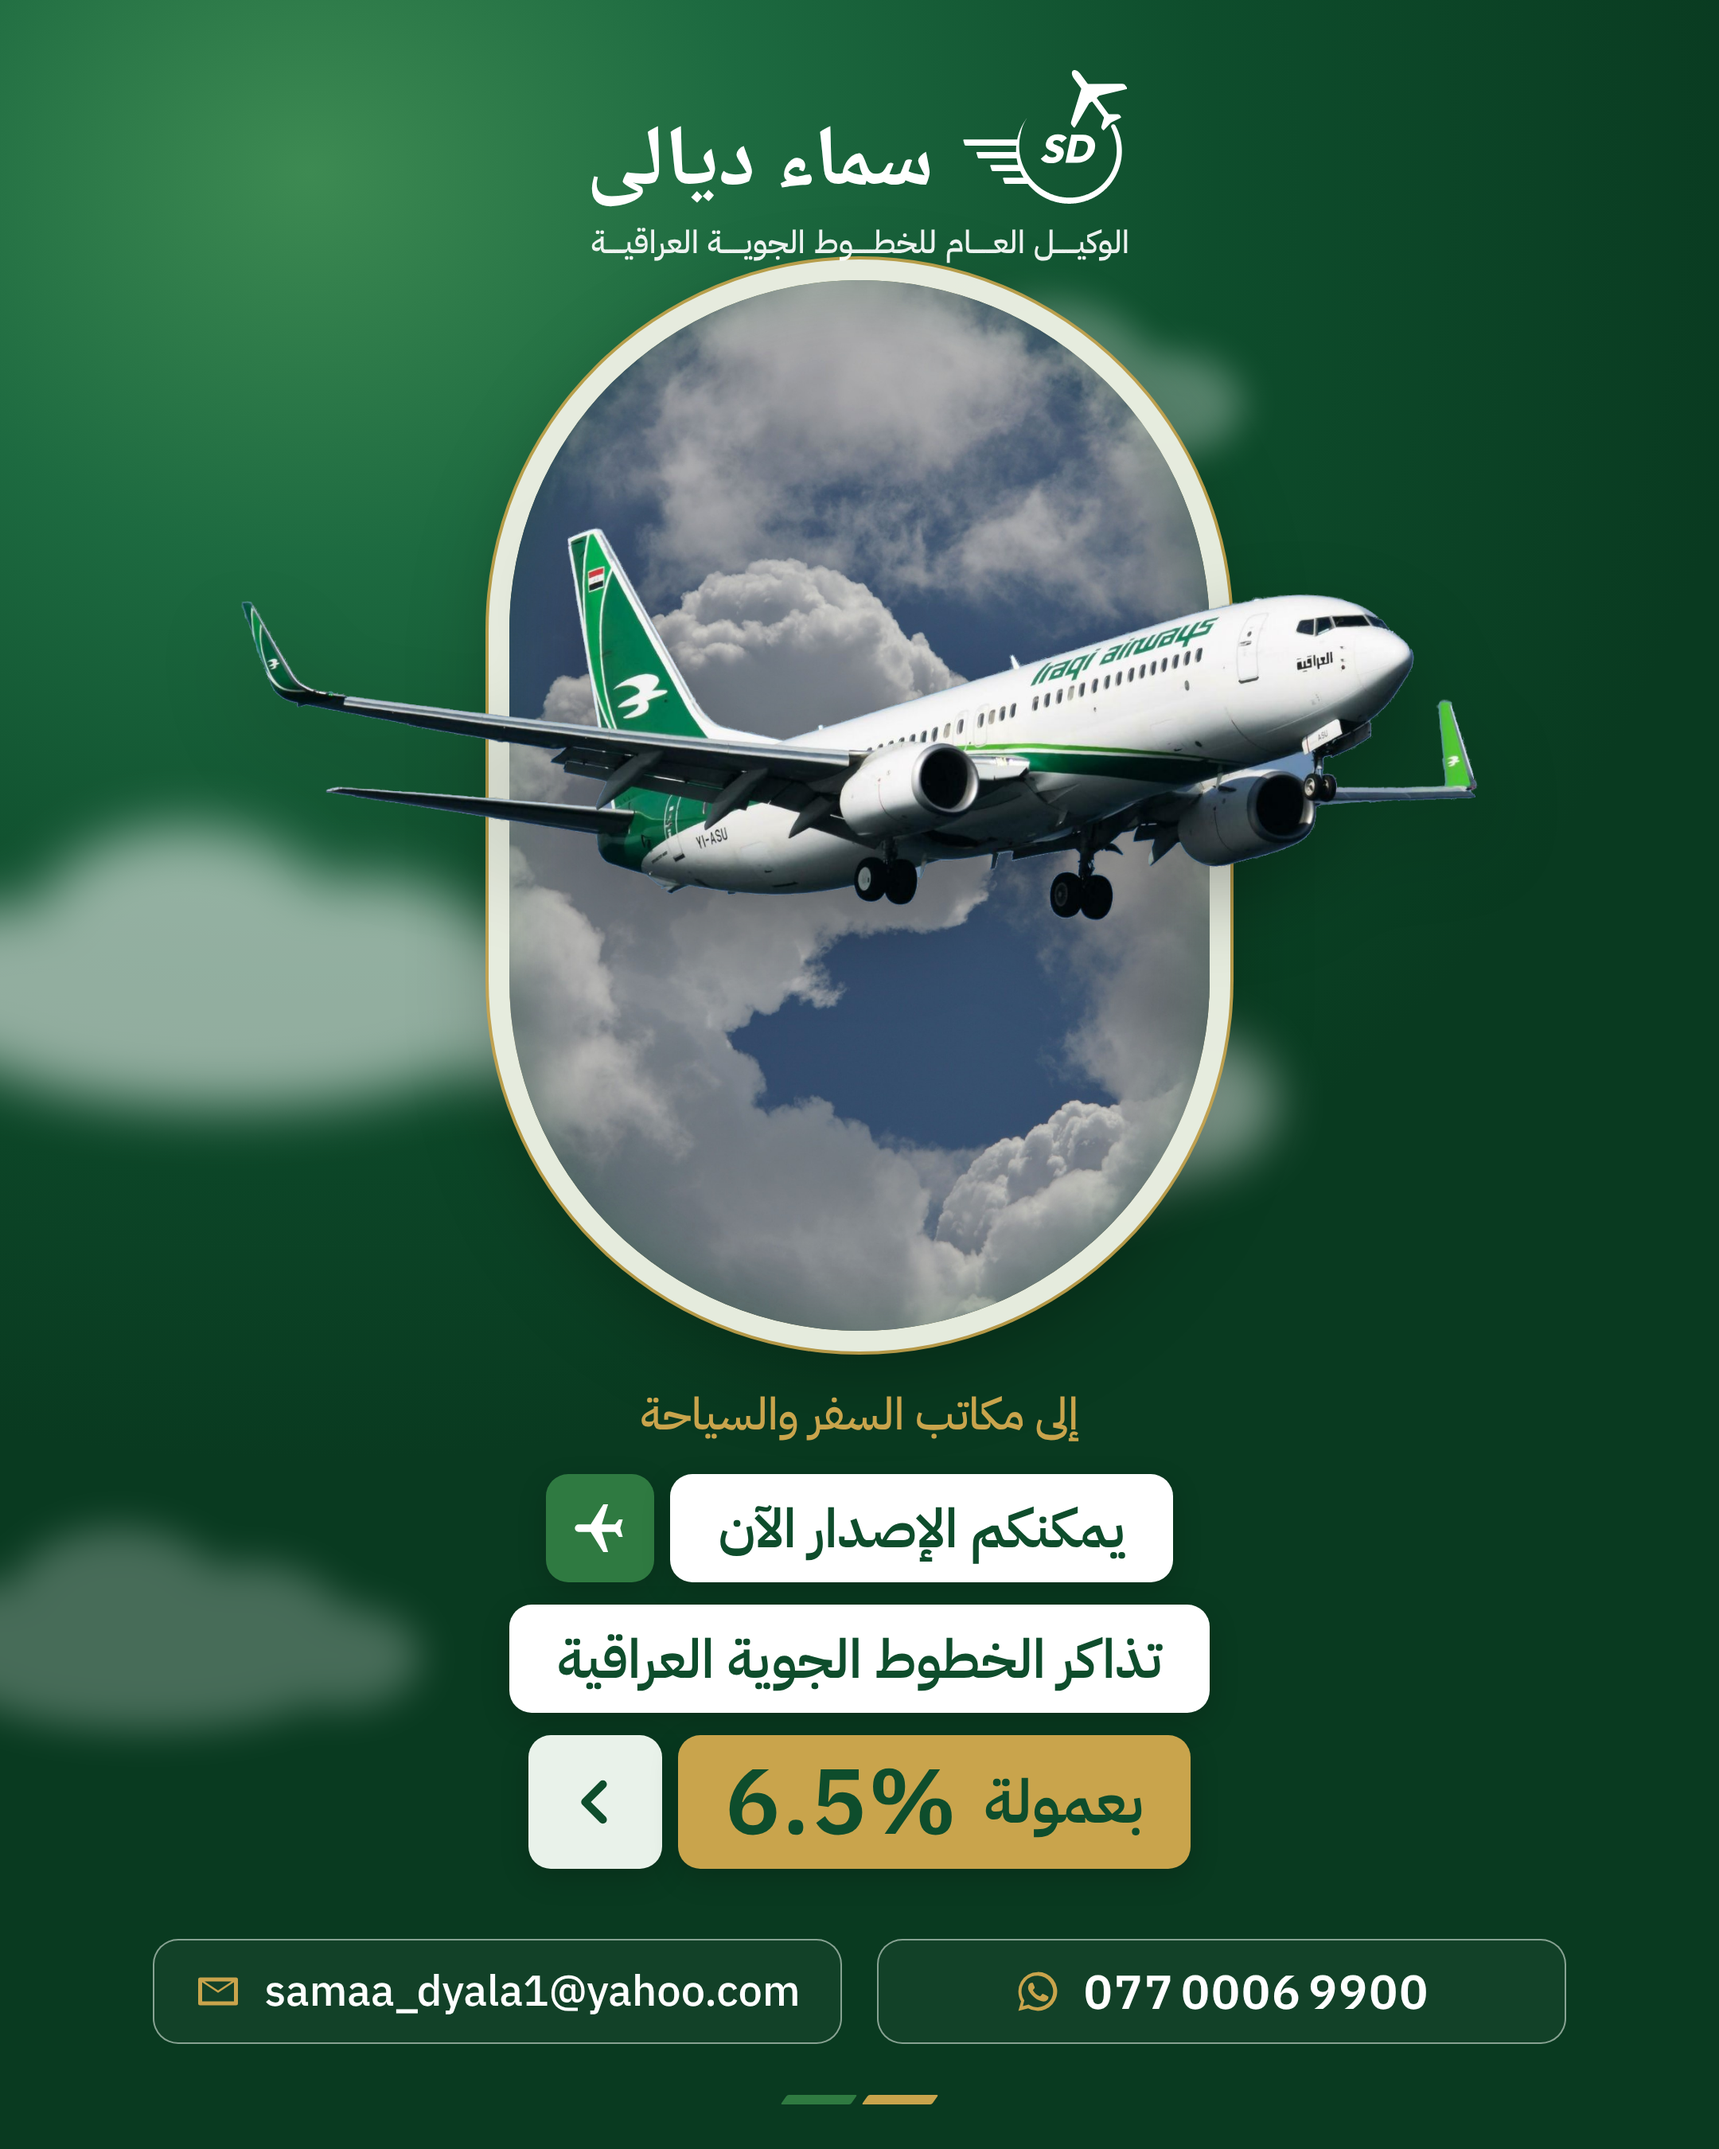
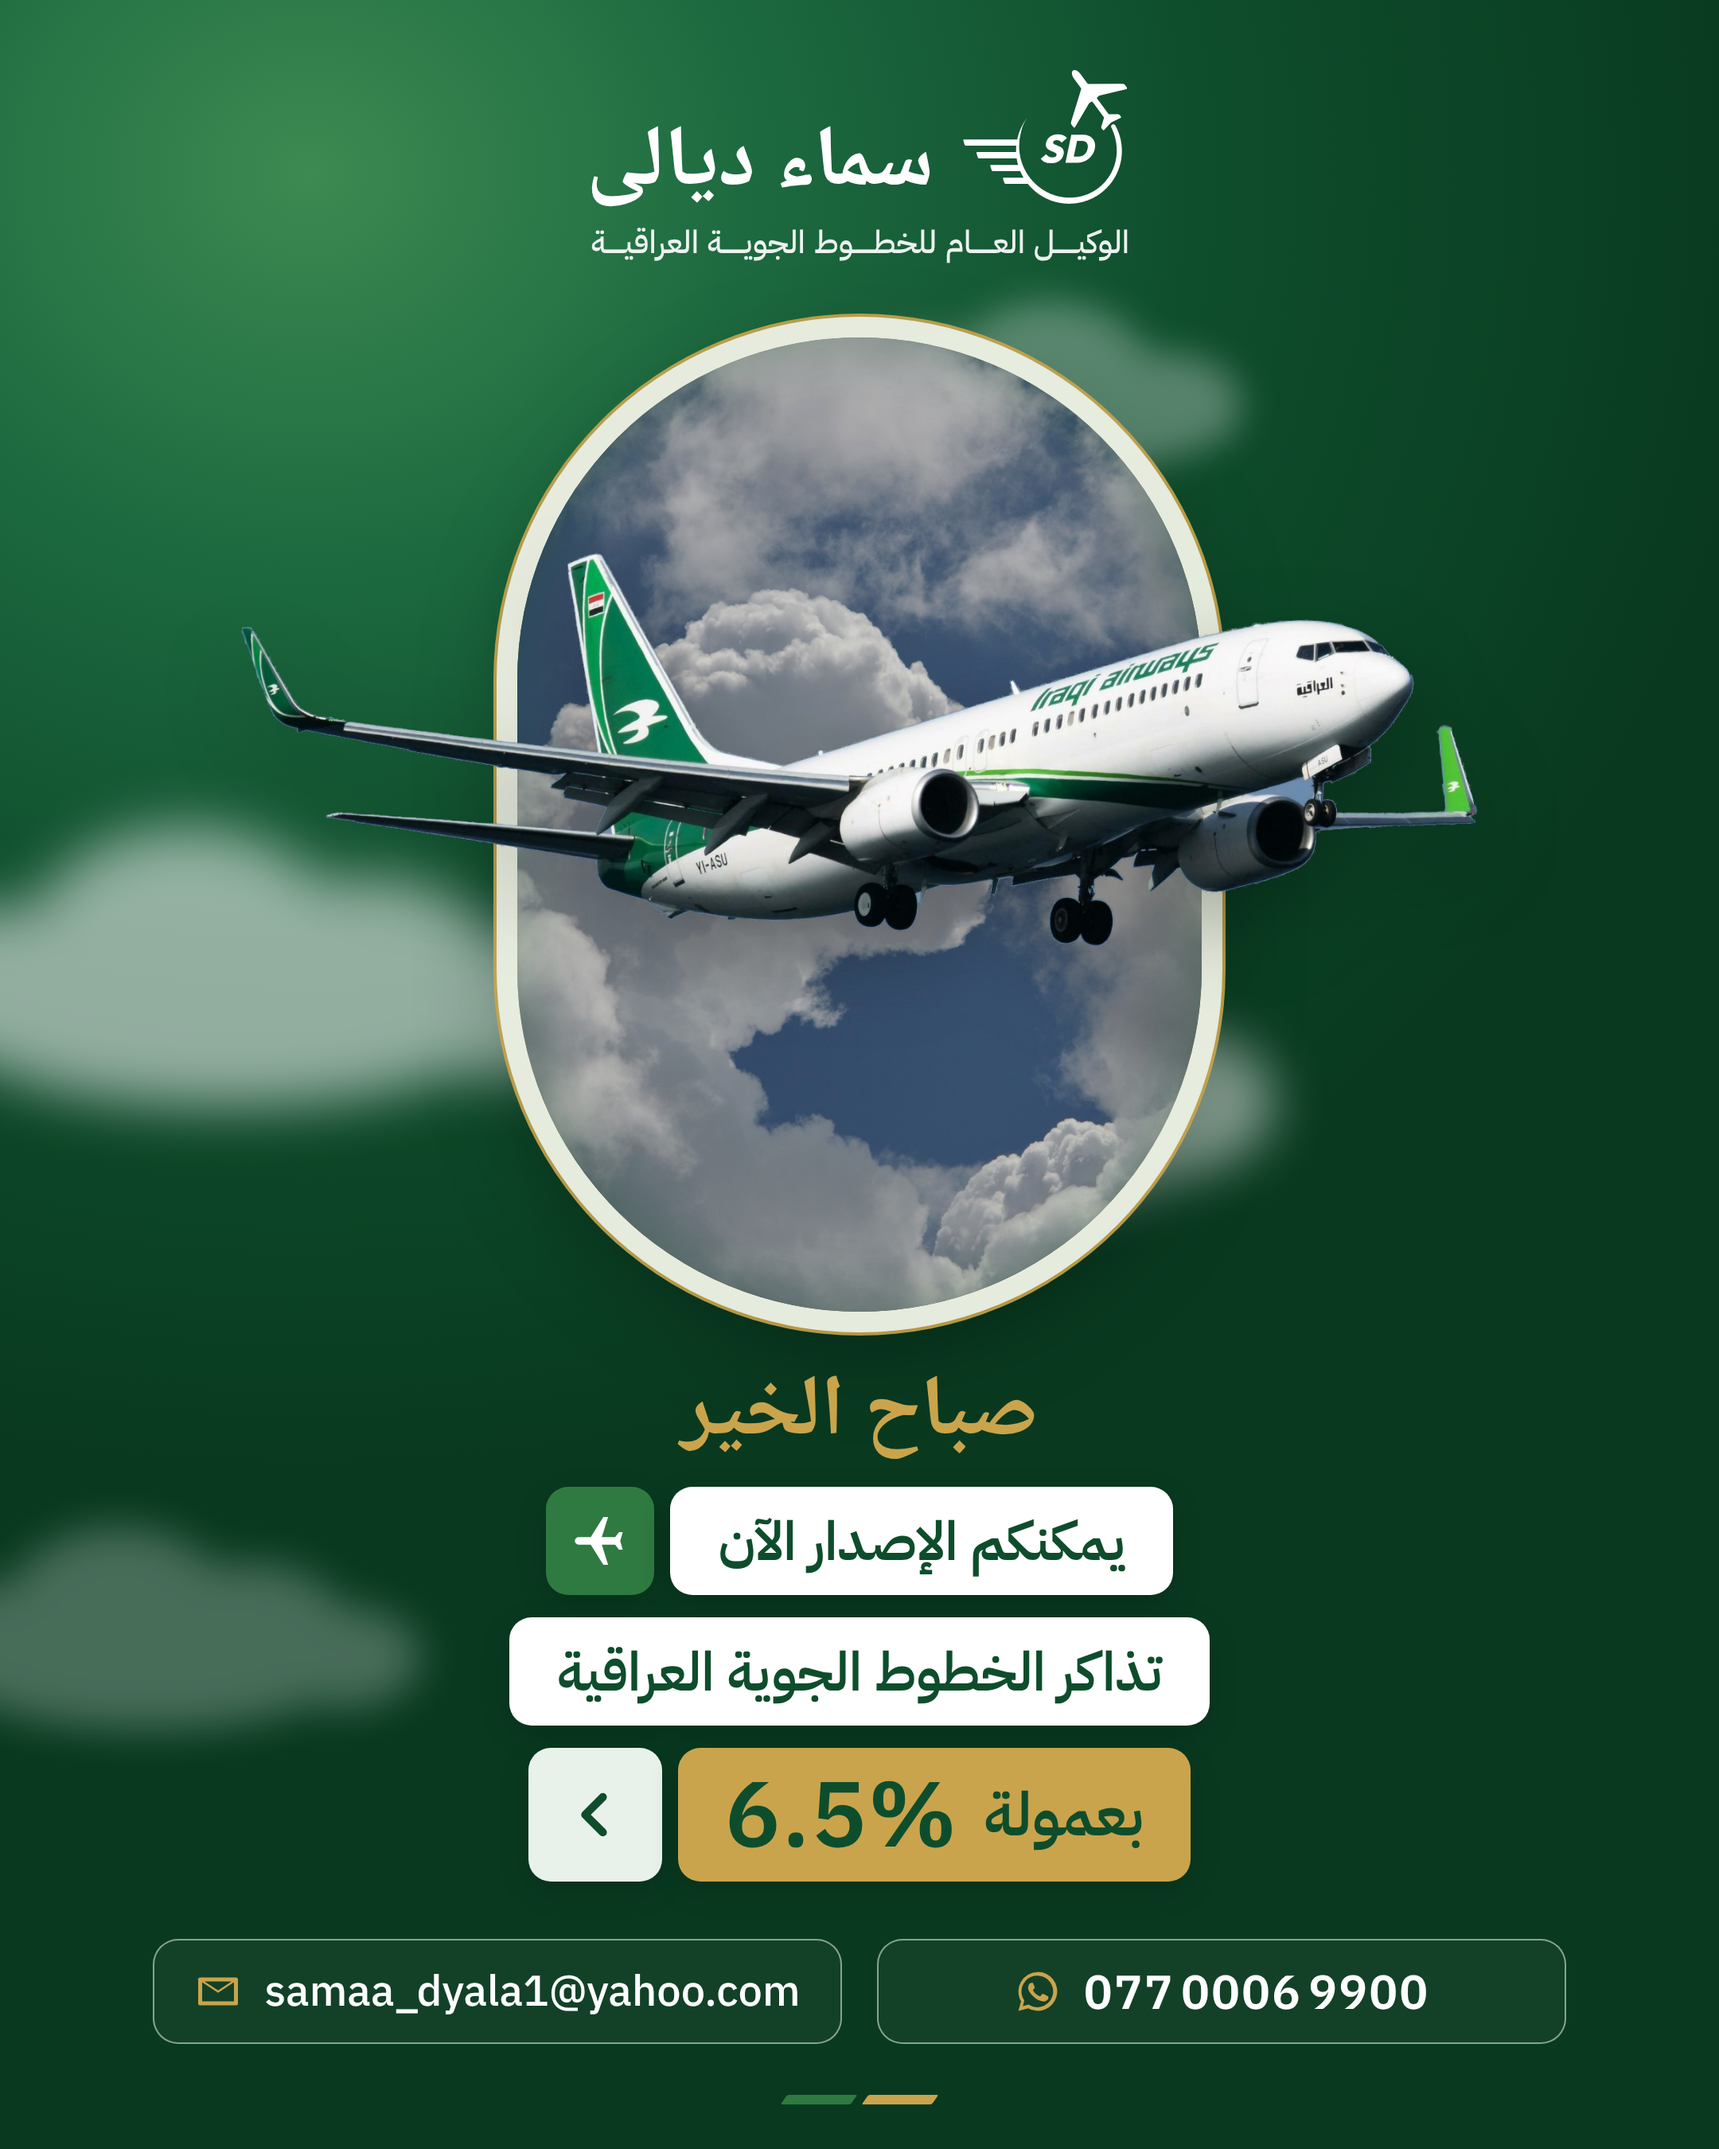
Window commission post: header spacing, morning greeting, no offices line
Claude-Session: https://claude.ai/code/session_01EprWPUJDuKvYHn821imCPv

Changed region(s): [[0.1551, 0.0933, 0.8685, 0.9022], [0.1241, 0.28, 0.1551, 0.3111]]

diff --git a/09-التصاميم/عمولة الإصدار - النافذة/إعلان.html b/09-التصاميم/عمولة الإصدار - النافذة/إعلان.html
@@ -26,14 +26,14 @@ html,body{width:1080px;height:1350px;overflow:hidden;background:#0E4D2C}
 .head{position:absolute;top:44px;left:0;right:0;display:flex;flex-direction:column;align-items:center;z-index:5}
 .mist{position:absolute;width:380px;height:150px;transform-origin:0 0;filter:blur(14px)}
 .mist i{position:absolute;border-radius:50%;background:#fff}
-.win{position:absolute;left:320px;top:176px;width:440px;height:660px;border-radius:230px;overflow:hidden;
+.win{position:absolute;left:325px;top:212px;width:430px;height:612px;border-radius:230px;overflow:hidden;
   box-shadow:0 0 0 13px rgba(233,242,234,.92),0 0 0 15px rgba(201,164,76,.9),0 18px 60px rgba(0,0,0,.35)}
 .win img{width:100%;height:100%;object-fit:cover;object-position:50% 40%}
 .win::after{content:"";position:absolute;inset:0;border-radius:230px;box-shadow:inset 0 0 40px rgba(14,77,44,.35)}
-.plane{position:absolute;left:150px;top:330px;width:780px;z-index:3;filter:drop-shadow(0 22px 26px rgba(0,0,0,.28))}
+.plane{position:absolute;left:150px;top:346px;width:780px;z-index:3;filter:drop-shadow(0 22px 26px rgba(0,0,0,.28))}
 .over{z-index:4}
-.rows{position:absolute;left:0;right:0;top:868px;display:flex;flex-direction:column;align-items:center;gap:14px;z-index:5}
-.kick{font-family:Plex;font-weight:500;font-size:28px;color:var(--gold);margin-bottom:2px}
+.rows{position:absolute;left:0;right:0;top:858px;display:flex;flex-direction:column;align-items:center;gap:14px;z-index:5}
+.kick{font-family:Naskh;font-weight:700;font-size:54px;line-height:1.15;color:var(--gold);margin-bottom:0}
 .row{display:flex;align-items:stretch;gap:10px;direction:ltr}
 .box{direction:rtl;background:#fff;color:var(--green);border-radius:14px;padding:0 30px;height:68px;display:flex;align-items:center;
   font-family:Plex;font-weight:600;font-size:34px;white-space:nowrap;box-shadow:0 6px 18px rgba(0,0,0,.18)}
@@ -67,7 +67,7 @@ html,body{width:1080px;height:1350px;overflow:hidden;background:#0E4D2C}
     </div>
   </div>
   <div class="rows">
-    <div class="kick">إلى مكاتب السفر والسياحة</div>
+    <div class="kick">صباح الخير</div>
     <div class="row"><span class="sq"><svg viewBox="0 0 24 24" fill="#fff"><path d="M21.5 15.2v-1.9l-8-5V3.5a1.5 1.5 0 0 0-3 0v4.8l-8 5v1.9l8-2.5v5.3l-2 1.5V21l3.5-1 3.5 1v-1.5l-2-1.5v-5.3z" transform="rotate(-90 12 12)"/></svg></span><span class="box">يمكنكم الإصدار الآن</span></div>
     <div class="row"><span class="box">تذاكر الخطوط الجوية العراقية</span></div>
     <div class="row big"><span class="sq"><svg viewBox="0 0 24 24" fill="none" stroke="#0E4D2C" stroke-width="3.2" stroke-linecap="round" stroke-linejoin="round"><path d="M15 5l-7 7 7 7"/></svg></span><span class="box">بعمولة <b>6.5%</b></span></div>

diff --git a/CLAUDE.md b/CLAUDE.md
@@ -101,7 +101,7 @@
 - المقاطع مأخوذة من تيك توك وإنستغرام، فلا تُستخدم في إعلان ممول دون إذن أصحابها، وتُزال أصواتها في المونتاج.
 
 ## منشورات المكاتب (B2B)
-- الشركة تبيع التذاكر لمكاتب السفر الأخرى، والموظفون يرسلون لها منشورات "يمكنكم الإصدار الآن". النموذج المعتمد بهويتنا: `09-التصاميم/عمولة الإصدار للمكاتب/` (من قالب الثقة): "إلى مكاتب السفر والسياحة"، "يمكنكم الإصدار الآن"، "تذاكر الخطوط الجوية العراقية"، "بعمولة 6.5%"، وصورة طائرة العراقية، وبطاقة فيها رقم الإصدار والبريد. تتغير نسبة العمولة من القالب مباشرة. ونسخة ثانية بأسلوب "النافذة" (طائرة العراقية YI-ASU تخرج من نافذة طائرة فيها سماء بغيوم، والنص في صناديق): `09-التصاميم/عمولة الإصدار - النافذة/`. صورة الطائرة المفرغة `08-الصور/طائرة العراقية YI-ASU (مفرغة).png` (من صورة بسماء زرقاء أرسلها إحسان) تصلح لتصاميم أخرى، وصورة الغيوم `08-الصور/سماء بغيوم (عمودية).jpg`. الغيوم خارج النافذة رسوم ضبابية بيضاء لا صور مقصوصة.
+- الشركة تبيع التذاكر لمكاتب السفر الأخرى، والموظفون يرسلون لها منشورات "يمكنكم الإصدار الآن". النموذج المعتمد بهويتنا: `09-التصاميم/عمولة الإصدار للمكاتب/` (من قالب الثقة): "إلى مكاتب السفر والسياحة"، "يمكنكم الإصدار الآن"، "تذاكر الخطوط الجوية العراقية"، "بعمولة 6.5%"، وصورة طائرة العراقية، وبطاقة فيها رقم الإصدار والبريد. تتغير نسبة العمولة من القالب مباشرة. ونسخة ثانية بأسلوب "النافذة" (طائرة العراقية YI-ASU تخرج من نافذة طائرة فيها سماء بغيوم، ثم "صباح الخير" بالذهبي، والنص في صناديق، بلا "إلى مكاتب السفر والسياحة"، ومسافة واضحة بين سطر الوكيل والنافذة): `09-التصاميم/عمولة الإصدار - النافذة/`. صورة الطائرة المفرغة `08-الصور/طائرة العراقية YI-ASU (مفرغة).png` (من صورة بسماء زرقاء أرسلها إحسان) تصلح لتصاميم أخرى، وصورة الغيوم `08-الصور/سماء بغيوم (عمودية).jpg`. الغيوم خارج النافذة رسوم ضبابية بيضاء لا صور مقصوصة.
 
 ## قواعد ثابتة لكل التصاميم
 - السعر كاملاً بصيغة "725,000 د.ع".
